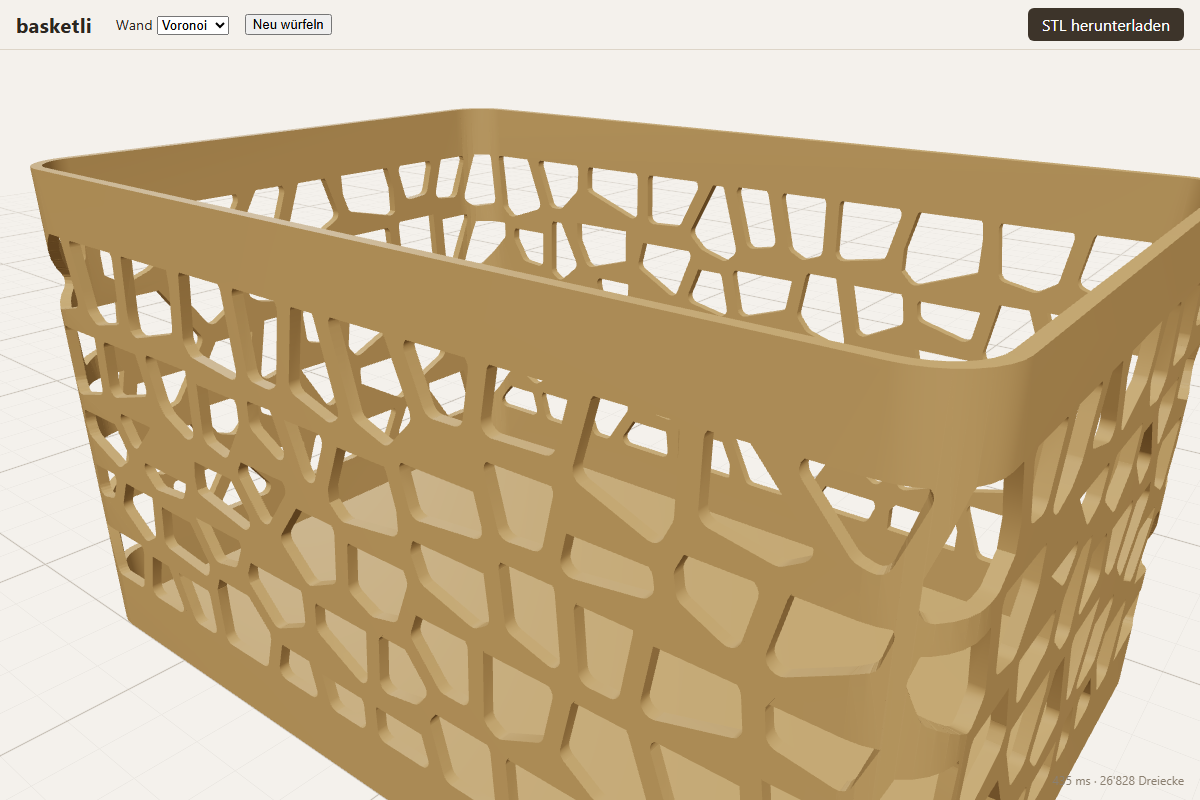
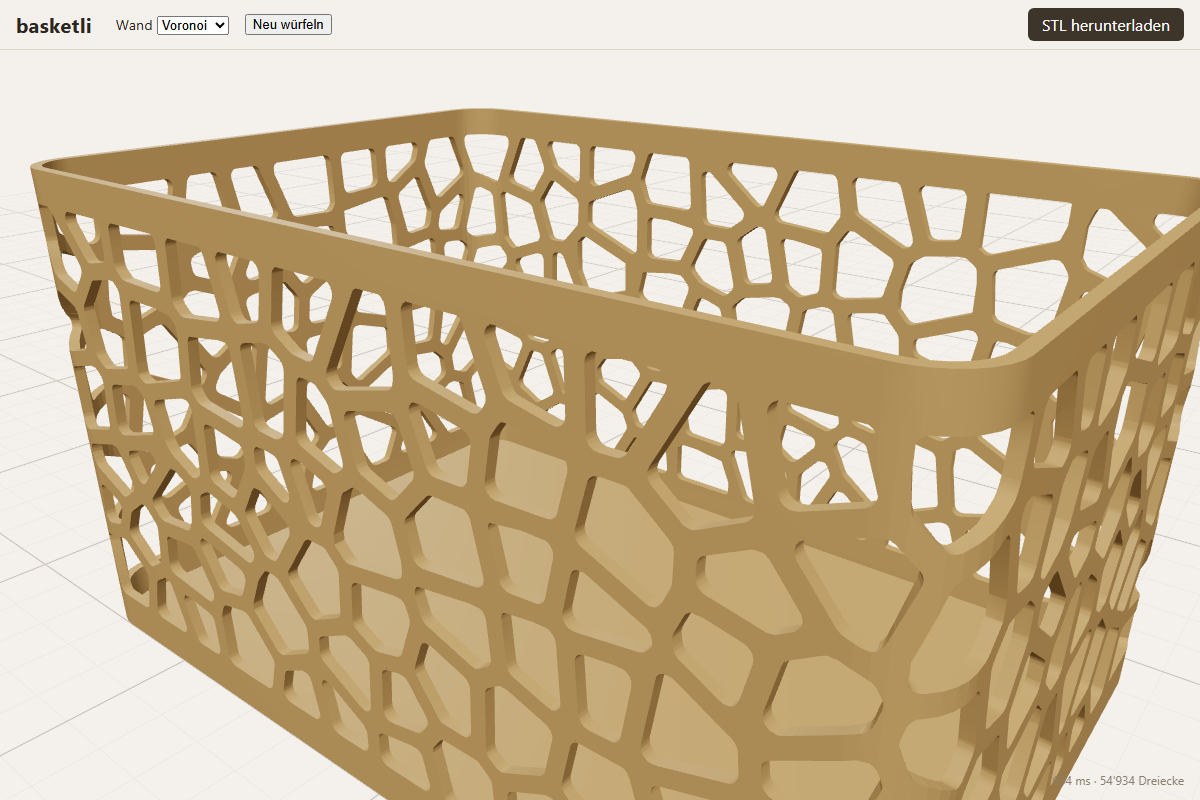
feat(patterns): real Voronoi cell shapes, narrower border bands
The 45° flat cut made every Voronoi cell flat on top. In a thin wall the
extrusion lines run along the wall, so slanted hole tops only extend them
lengthwise - that prints fine.

- printableHole: top-down scan keeps the real cell shape and only shrinks a
  hole where a side would close by more than ~1.4 mm per 0.2 mm layer
  (flatter than 8°); the last opening closes as a bridge
- overhangReport: optional envelope (the unperforated wall); one-sided
  pieces inside the wall reaching <= 2 mm beyond their anchor are line
  extensions. Ledges sticking out of the wall still fail (tool tests)
- border band default 8 -> 4 mm

Changed region(s): [[0.0308, 0.25, 1.0, 1.0], [0.0925, 0.1562, 0.9867, 0.4688], [0.925, 0.9688, 0.9558, 1.0]]

diff --git a/src/geometry/patterns/voronoi.ts b/src/geometry/patterns/voronoi.ts
@@ -94,30 +94,108 @@ export function voronoiCells(
 }
 
 /**
- * Makes a convex hole printable without support: above the height where its
- * upper outline becomes flatter than 45°, it is cut off flat. What remains is
- * steep sides plus a flat top that bridges between them. Returns the clipped
- * hole (only ever smaller than the input, so webs never get thinner).
+ * Upper hole outlines flatter than this (degrees) are not printed as they are:
+ * every layer would extend the wall lines lengthwise by more than ~1.4 mm.
+ */
+export const MIN_TOP_DEG = 8;
+/** Layer height the hole tops are designed for (mm). */
+const LAYER = 0.2;
+/** Height step of the scan (mm). */
+const SCAN = 0.1;
+
+/** Keeps the part of `poly` where nx·x + ny·y ≤ c. */
+function clipLine(poly: Vec2[], nx: number, ny: number, c: number): Vec2[] {
+  const out: Vec2[] = [];
+  const f = (q: Vec2) => nx * q[0] + ny * q[1] - c;
+  for (let i = 0; i < poly.length; i++) {
+    const a = poly[i]!;
+    const b = poly[(i + 1) % poly.length]!;
+    const fa = f(a);
+    const fb = f(b);
+    if (fa <= 0) out.push(a);
+    if ((fa < 0 && fb > 0) || (fa > 0 && fb < 0)) {
+      const t = fa / (fa - fb);
+      out.push([a[0] + (b[0] - a[0]) * t, a[1] + (b[1] - a[1]) * t]);
+    }
+  }
+  return out;
+}
+
+/** [left, right] where the horizontal line at height y crosses a convex polygon. */
+function span(poly: Vec2[], y: number): [number, number] | undefined {
+  let lo = Infinity;
+  let hi = -Infinity;
+  for (let i = 0; i < poly.length; i++) {
+    const a = poly[i]!;
+    const b = poly[(i + 1) % poly.length]!;
+    if ((a[1] - y) * (b[1] - y) > 0 || a[1] === b[1]) continue;
+    const x = a[0] + ((b[0] - a[0]) * (y - a[1])) / (b[1] - a[1]);
+    lo = Math.min(lo, x);
+    hi = Math.max(hi, x);
+  }
+  return hi > lo ? [lo, hi] : undefined;
+}
+
+/**
+ * Keeps the Voronoi shape as far as printing allows. In a thin wall the
+ * extrusion lines run along the wall: going up, each side of a hole may close
+ * in by at most LAYER / tan(MIN_TOP_DEG) per layer (lines get extended
+ * lengthwise), and the last opening at the very top is closed by one bridge.
+ * A top-down scan enforces this by making the hole smaller where needed –
+ * flat shoulders, rounded corners and flat tops alike. Holes wider than
+ * MAX_HOLE_TOP are first trimmed to vertical sides.
  */
 export function printableHole(hole: Vec2[]): Vec2[] {
-  let cut = Infinity;
-  for (let i = 0; i < hole.length; i++) {
-    const p = hole[i]!;
-    const q = hole[(i + 1) % hole.length]!;
-    const dx = q[0] - p[0];
-    const dy = q[1] - p[1];
-    // Counter-clockwise: an edge running leftwards is on the upper outline.
-    if (dx < 0 && Math.abs(dy) < Math.abs(dx)) cut = Math.min(cut, p[1], q[1]);
+  let poly = hole;
+  const xs = poly.map((q) => q[0]);
+  if (Math.max(...xs) - Math.min(...xs) > MAX_HOLE_TOP) {
+    const mid = (Math.min(...xs) + Math.max(...xs)) / 2;
+    poly = clipLine(poly, 1, 0, mid + MAX_HOLE_TOP / 2);
+    poly = clipLine(poly, -1, 0, -(mid - MAX_HOLE_TOP / 2));
   }
-  let out = hole;
-  if (cut !== Infinity) out = clipHalfPlane(out, [0, cut - 1], [0, cut + 1]);
-  // Safety net: holes wider than MAX_HOLE_TOP get vertical sides, so the flat
-  // top never bridges further than that.
-  const xs = out.map((q) => q[0]);
-  const mid = (Math.min(...xs) + Math.max(...xs)) / 2;
-  const half = MAX_HOLE_TOP / 2;
-  out = clipHalfPlane(out, [mid, 0], [mid + 2 * half, 0]);
-  out = clipHalfPlane(out, [mid, 0], [mid - 2 * half, 0]);
+  const ys = poly.map((q) => q[1]);
+  const y0 = Math.min(...ys);
+  const y1 = Math.max(...ys);
+  const steps = Math.ceil((y1 - y0) / SCAN);
+  const step = (SCAN / LAYER / Math.tan((MIN_TOP_DEG * Math.PI) / 180)) * LAYER;
+
+  // Scan heights strictly inside the hole, from the top down.
+  const rows: { y: number; l: number; r: number }[] = [];
+  let above: { l: number; r: number } | undefined;
+  for (let k = steps - 1; k >= 1; k--) {
+    const y = y0 + ((y1 - y0) * k) / steps;
+    const sp = span(poly, y);
+    if (!sp) continue;
+    let [l, r] = sp;
+    if (above) {
+      // Below a row the hole may only be wider by `step` per side.
+      l = Math.max(l, above.l - step);
+      r = Math.min(r, above.r + step);
+    }
+    if (r - l < 1e-6) continue;
+    rows.push({ y, l, r });
+    above = { l, r };
+  }
+  if (rows.length < 2) return [];
+  rows.reverse(); // bottom → top
+  const out: Vec2[] = [];
+  const bottom = span(poly, y0 + 1e-6);
+  if (bottom) out.push([bottom[0], y0], [bottom[1], y0]);
+  for (const row of rows) out.push([row.r, row.y]);
+  for (let i = rows.length - 1; i >= 0; i--) out.push([rows[i]!.l, rows[i]!.y]);
+  return dropCollinear(out);
+}
+
+/** Removes points that lie on the straight line through their neighbours. */
+function dropCollinear(poly: Vec2[]): Vec2[] {
+  const out: Vec2[] = [];
+  for (let i = 0; i < poly.length; i++) {
+    const a = out[out.length - 1] ?? poly[poly.length - 1]!;
+    const b = poly[i]!;
+    const c = poly[(i + 1) % poly.length]!;
+    const cross = (b[0] - a[0]) * (c[1] - a[1]) - (b[1] - a[1]) * (c[0] - a[0]);
+    if (Math.abs(cross) > 1e-4) out.push(b);
+  }
   return out;
 }
 

diff --git a/tests/geometry/patterns/voronoi.test.ts b/tests/geometry/patterns/voronoi.test.ts
@@ -5,6 +5,7 @@ import { loadManifold, Scope, type Wasm } from '../../../src/geometry/manifold';
 import { clampParams, DEFAULTS, type BasketParams } from '../../../src/geometry/params';
 import {
   MAX_HOLE_TOP,
+  MIN_TOP_DEG,
   printableHole,
   voronoiCutters,
   voronoiHoles,
@@ -46,28 +47,74 @@ describe('voronoi cells', () => {
   });
 });
 
+/** Width of a convex polygon at height y (0 outside). */
+function widthAt(poly: Vec2[], y: number): [number, number] | undefined {
+  const xs: number[] = [];
+  poly.forEach((a, i) => {
+    const b = poly[(i + 1) % poly.length]!;
+    if ((a[1] - y) * (b[1] - y) > 0 || a[1] === b[1]) return;
+    xs.push(a[0] + ((b[0] - a[0]) * (y - a[1])) / (b[1] - a[1]));
+  });
+  return xs.length >= 2 ? [Math.min(...xs), Math.max(...xs)] : undefined;
+}
+
+function isInside(poly: Vec2[], q: Vec2): boolean {
+  return poly.every((a, i) => {
+    const b = poly[(i + 1) % poly.length]!;
+    return (b[0] - a[0]) * (q[1] - a[1]) - (b[1] - a[1]) * (q[0] - a[0]) >= -1e-6;
+  });
+}
+
 describe('printableHole', () => {
-  it('cuts the shallow top of a circle-like hole flat', () => {
-    const circle: Vec2[] = Array.from({ length: 32 }, (_, i) => {
-      const a = (i / 32) * 2 * Math.PI;
-      return [5 * Math.cos(a), 5 * Math.sin(a)];
-    });
-    const hole = printableHole(circle);
-    const top = Math.max(...hole.map((q) => q[1]));
-    expect(top).toBeLessThan(5);
-    expect(top).toBeGreaterThan(5 * Math.SQRT1_2 - 0.5); // ~ where the outline reaches 45°
-    // every upper edge is either steep (≥ 45°) or the flat top
-    hole.forEach((q, i) => {
-      const r = hole[(i + 1) % hole.length]!;
-      const dx = r[0] - q[0];
-      const dy = r[1] - q[1];
-      if (dx < 0 && Math.abs(dy) > 1e-9)
-        expect(Math.abs(dy)).toBeGreaterThanOrEqual(Math.abs(dx) - 1e-9);
-    });
-    expect(polygonArea(hole)).toBeLessThan(polygonArea(circle));
+  const circle: Vec2[] = Array.from({ length: 48 }, (_, i) => {
+    const a = (i / 48) * 2 * Math.PI;
+    return [5 * Math.cos(a), 5 * Math.sin(a)];
+  });
+  // convex cell whose top flattens out (rounded corner + nearly flat top)
+  const flatTop: Vec2[] = [
+    [0, 0],
+    [10, 0],
+    [10, 6],
+    [9.5, 7.5],
+    [8, 8.2],
+    [2, 8.6], // ~4° top edge
+    [0, 7],
+  ];
+
+  it.each([
+    ['circle', circle],
+    ['flat top', flatTop],
+  ] as const)('%s: only shrinks, closes ≤ MIN_TOP_DEG per side, flat bridge on top', (_n, cell) => {
+    const hole = printableHole(cell);
+    hole.forEach((q) => expect(isInside(cell, q)).toBe(true));
+    const tan = Math.tan((MIN_TOP_DEG * Math.PI) / 180);
+    const maxStep = (0.2 / tan) * 1.001;
+    const ys = hole.map((q) => q[1]);
+    const top = Math.max(...ys);
+    for (let y = Math.min(...ys) + 0.2; y < top - 0.2; y += 0.2) {
+      const lower = widthAt(hole, y)!;
+      const upper = widthAt(hole, y + 0.2);
+      if (!upper) continue;
+      expect(upper[0] - lower[0]).toBeLessThanOrEqual(maxStep); // left side closes in
+      expect(lower[1] - upper[1]).toBeLessThanOrEqual(maxStep); // right side closes in
+    }
   });
 
-  it('never leaves a flat top wider than MAX_HOLE_TOP', () => {
+  it('keeps steep parts of the real cell shape', () => {
+    const cell: Vec2[] = [
+      [0, 0],
+      [6, 0],
+      [7, 6],
+      [3, 10],
+      [-1, 6],
+    ];
+    const hole = printableHole(cell);
+    // the steep lower flanks are unchanged
+    expect(widthAt(hole, 3)![0]).toBeCloseTo(widthAt(cell, 3)![0], 1);
+    expect(widthAt(hole, 3)![1]).toBeCloseTo(widthAt(cell, 3)![1], 1);
+  });
+
+  it('never leaves a hole wider than MAX_HOLE_TOP', () => {
     const wide: Vec2[] = [
       [-12, 0],
       [12, 0],
@@ -179,7 +226,7 @@ describe('voronoi basket', () => {
       expect(parts.length).toBe(1);
       parts.forEach((x) => x.delete());
       expect(m.volume()).toBeLessThan(tub.volume() * 0.9); // holes really cut
-      const r = overhangReport(m);
+      const r = overhangReport(m, { envelope: tub });
       expect(r.maxArea, `z=${r.worstZ.toFixed(1)}`).toBeLessThan(0.5);
       expect(r.maxBridge).toBeLessThanOrEqual(MAX_BRIDGE);
     } finally {

diff --git a/src/geometry/printability.ts b/src/geometry/printability.ts
@@ -8,6 +8,12 @@ export const MAX_BRIDGE = 15;
  * (mm²): the bridge has to run into its support, not just touch it.
  */
 export const MIN_ANCHOR_AREA = 0.08;
+/**
+ * Inside a thin wall, extrusion lines run along the wall. A one-sided piece
+ * that stays inside the wall and reaches at most this far (mm) beyond the
+ * layer below just extends those lines lengthwise – that prints fine.
+ */
+export const MAX_LINE_EXTENSION = 2;
 
 export interface OverhangReport {
   /** Largest unsupported, non-bridge area in a single layer (mm²). */
@@ -25,6 +31,11 @@ export interface OverhangOptions {
   tolerance?: number;
   /** One-sided specks narrower than this are ignored (half a 0.4 mm line). */
   minFeature?: number;
+  /**
+   * The same body without its holes (e.g. the plain tub of a perforated
+   * wall). One-sided pieces that lie inside it are in-plane line extensions.
+   */
+  envelope?: Manifold;
 }
 
 /**
@@ -34,7 +45,8 @@ export interface OverhangOptions {
  * places, each anchor overlapping by at least MIN_ANCHOR_AREA (a single
  * extrusion line may bridge if it runs into its supports). Bridges are
  * measured. Floating regions always count as unsupported; one-sided
- * overhangs count unless thinner than `minFeature`.
+ * overhangs count unless thinner than `minFeature` or – with an `envelope` –
+ * short line extensions within the wall plane.
  */
 export function overhangReport(m: Manifold, options: OverhangOptions = {}): OverhangReport {
   const layer = options.layer ?? 0.2;
@@ -52,6 +64,7 @@ export function overhangReport(m: Manifold, options: OverhangOptions = {}): Over
     const cur = scope.keep(m.slice(z));
     const supported = scope.keep(prev.offset(reach, 'Round'));
     const unsupported = scope.keep(cur.subtract(supported));
+    const wall = options.envelope ? scope.keep(options.envelope.slice(z)) : undefined;
 
     let area = 0;
     for (const part of unsupported.decompose()) {
@@ -65,6 +78,7 @@ export function overhangReport(m: Manifold, options: OverhangOptions = {}): Over
       if (anchors === 0) {
         area += a; // floating in mid-air: always a failure, however thin
       } else if (anchors === 1) {
+        if (wall && inPlaneExtension(scope, part, contact, wall)) continue;
         // Cantilever: specks thinner than minFeature cannot droop measurably.
         const opened = scope.keep(
           scope.keep(part.offset(-minFeature / 2, 'Round')).offset(minFeature / 2, 'Round'),
@@ -91,6 +105,22 @@ export function overhangReport(m: Manifold, options: OverhangOptions = {}): Over
   }
   prevScope.dispose();
   return report;
+}
+
+/**
+ * A one-sided piece inside the wall whose every point lies within
+ * MAX_LINE_EXTENSION of its anchor: the wall lines are just extended.
+ */
+function inPlaneExtension(
+  scope: Scope,
+  part: CrossSection,
+  contact: CrossSection,
+  wall: CrossSection,
+): boolean {
+  const outside = scope.keep(part.subtract(scope.keep(wall.offset(0.01, 'Round')))).area();
+  if (outside >= 0.01) return false;
+  const reach = scope.keep(contact.offset(MAX_LINE_EXTENSION, 'Round'));
+  return scope.keep(part.subtract(reach)).area() < 0.01;
 }
 
 /** Number of separate places where a part overlaps the layer below by >= minArea. */

diff --git a/tests/geometry/printability-tool.test.ts b/tests/geometry/printability-tool.test.ts
@@ -61,6 +61,49 @@ describe('overhangReport (the tool itself)', () => {
     expect(overhangReport(bridge(20)).maxBridge).toBeCloseTo(20, 0);
   });
 
+  describe('in-plane line extensions in a thin wall (with envelope)', () => {
+    // 40 × 1.6 × 20 wall with a hole whose roof rises at `deg` from the horizontal
+    const wallWithHole = (deg: number) => {
+      const wall = box(40, 1.6, 20, [0, 0, 0]);
+      const rise = 10 * Math.tan((deg * Math.PI) / 180);
+      const hole = wasm.Manifold.extrude(
+        [
+          [
+            [10, 4],
+            [30, 4],
+            [30, 8],
+            [20, 8 + rise],
+            [10, 8],
+          ],
+        ],
+        4,
+      )
+        .rotate([90, 0, 0])
+        .translate([0, 3, 0]);
+      return { body: wall.subtract(hole), envelope: wall };
+    };
+
+    it('a 20° hole roof fails the plain test but passes inside the wall plane', () => {
+      const { body, envelope } = wallWithHole(20);
+      expect(overhangReport(body).maxArea).toBeGreaterThan(0.5);
+      expect(overhangReport(body, { envelope }).maxArea).toBeLessThan(0.5);
+    });
+
+    it('a flat hole top is a bridge', () => {
+      const { body, envelope } = wallWithHole(0);
+      const r = overhangReport(body, { envelope });
+      expect(r.maxArea).toBe(0);
+      expect(r.maxBridge).toBeGreaterThan(19);
+    });
+
+    it('a ledge sticking out of the wall still fails', () => {
+      const wall = box(40, 1.6, 20, [0, 0, 0]);
+      const ledge = box(20, 3, 1, [10, -3, 12]);
+      const r = overhangReport(wasm.Manifold.union([wall, ledge]), { envelope: wall });
+      expect(r.maxArea).toBeGreaterThan(10);
+    });
+  });
+
   it('a 45° slope is supported', () => {
     // wedge: extruded right triangle leaning out at 45°
     const wedge = wasm.Manifold.extrude(

diff --git a/tests/geometry/params.test.ts b/tests/geometry/params.test.ts
@@ -28,7 +28,7 @@ describe('DEFAULTS', () => {
       wallStyle: 'hex',
       holeSize: 10,
       webWidth: 2.5,
-      borderBand: 8,
+      borderBand: 4,
       handles: 'ends',
     });
     expect(DEFAULTS.weave).toEqual({

diff --git a/src/geometry/params.ts b/src/geometry/params.ts
@@ -102,7 +102,7 @@ export const DEFAULTS: BasketParams = {
   wallStyle: 'hex',
   holeSize: 10,
   webWidth: 2.5,
-  borderBand: 8,
+  borderBand: 4,
   handles: 'ends',
   voronoi: { cellSize: 12, seed: 1 },
   weave: {
